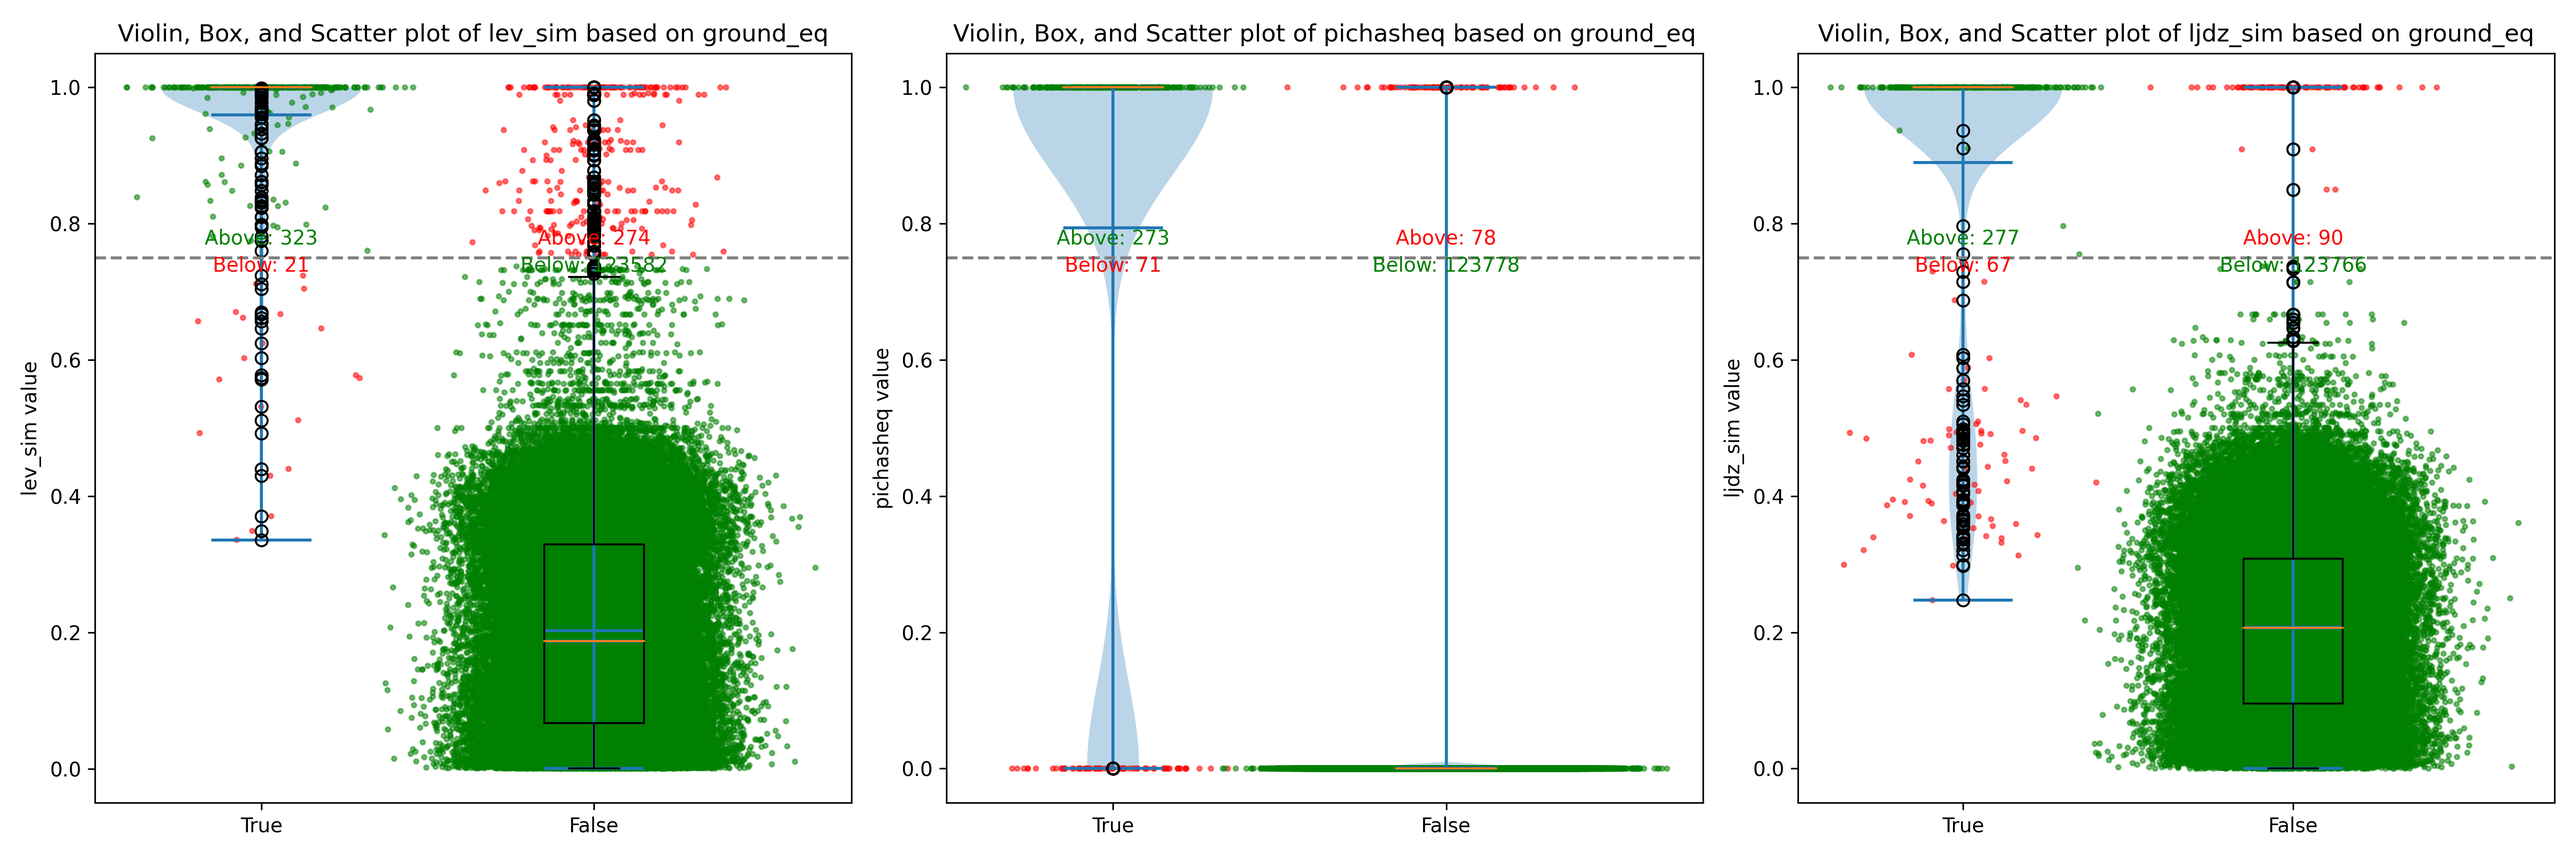
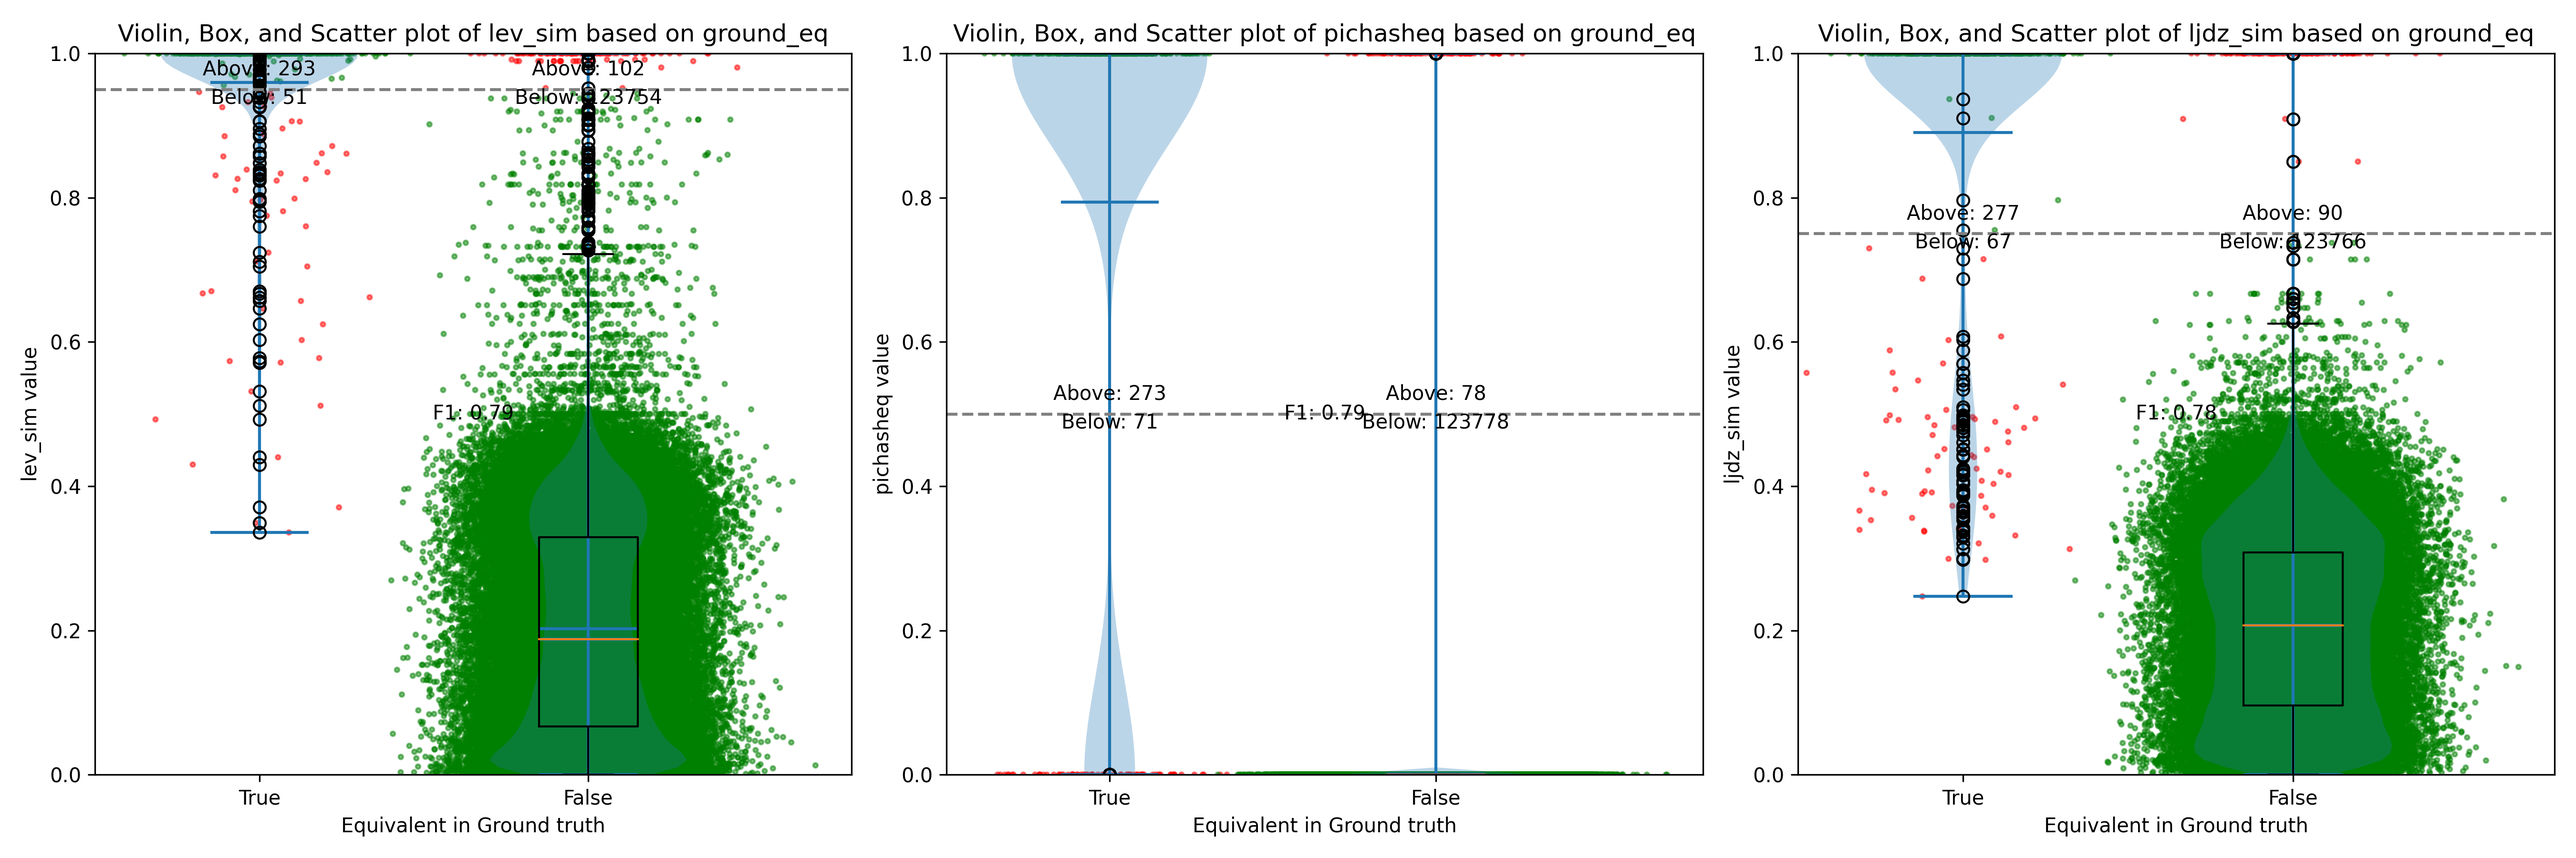
Update

diff --git a/lzjd-script.py b/lzjd-script.py
@@ -489,10 +489,13 @@ def violin_plot(data, fname):
         above = sum(1 for point in data if point > threshold)
         below = len(data) - above
         
-        if ground_true:
-            above_color, below_color = 'green', 'red'
-        else:
-            above_color, below_color = 'red', 'green'
+        #if ground_true:
+        #    above_color, below_color = 'green', 'red'
+        #else:
+        #    above_color, below_color = 'red', 'green'
+
+        # Hard to see otherwise!
+        above_color, below_color = 'black', 'black'
         
         return above, below, above_color, below_color
 
@@ -508,15 +511,15 @@ def violin_plot(data, fname):
         f1 = data[3]
         data = data[:2]
 
+        # Jittered scatter plots with custom colors
+        axes[idx].scatter(jitter_points(data[0], positions[0]), data[0], marker='o', color=get_colors(data[0], True, threshold), s=5, alpha=0.5)
+        axes[idx].scatter(jitter_points(data[1], positions[1]), data[1], marker='o', color=get_colors(data[1], False, threshold), s=5, alpha=0.5)
+
         # Violin plot
         axes[idx].violinplot(data, showmeans=True, showmedians=True, positions=positions, widths=0.6)
         
         # Box plot overlayed on top of the violin plot
         axes[idx].boxplot(data, positions=positions, vert=True, widths=0.3)
-
-        # Jittered scatter plots with custom colors
-        axes[idx].scatter(jitter_points(data[0], positions[0]), data[0], marker='o', color=get_colors(data[0], True, threshold), s=5, alpha=0.5)
-        axes[idx].scatter(jitter_points(data[1], positions[1]), data[1], marker='o', color=get_colors(data[1], False, threshold), s=5, alpha=0.5)
         
         # Line across the plot at y=threshold
         axes[idx].axhline(y=threshold, color='gray', linestyle='--')
